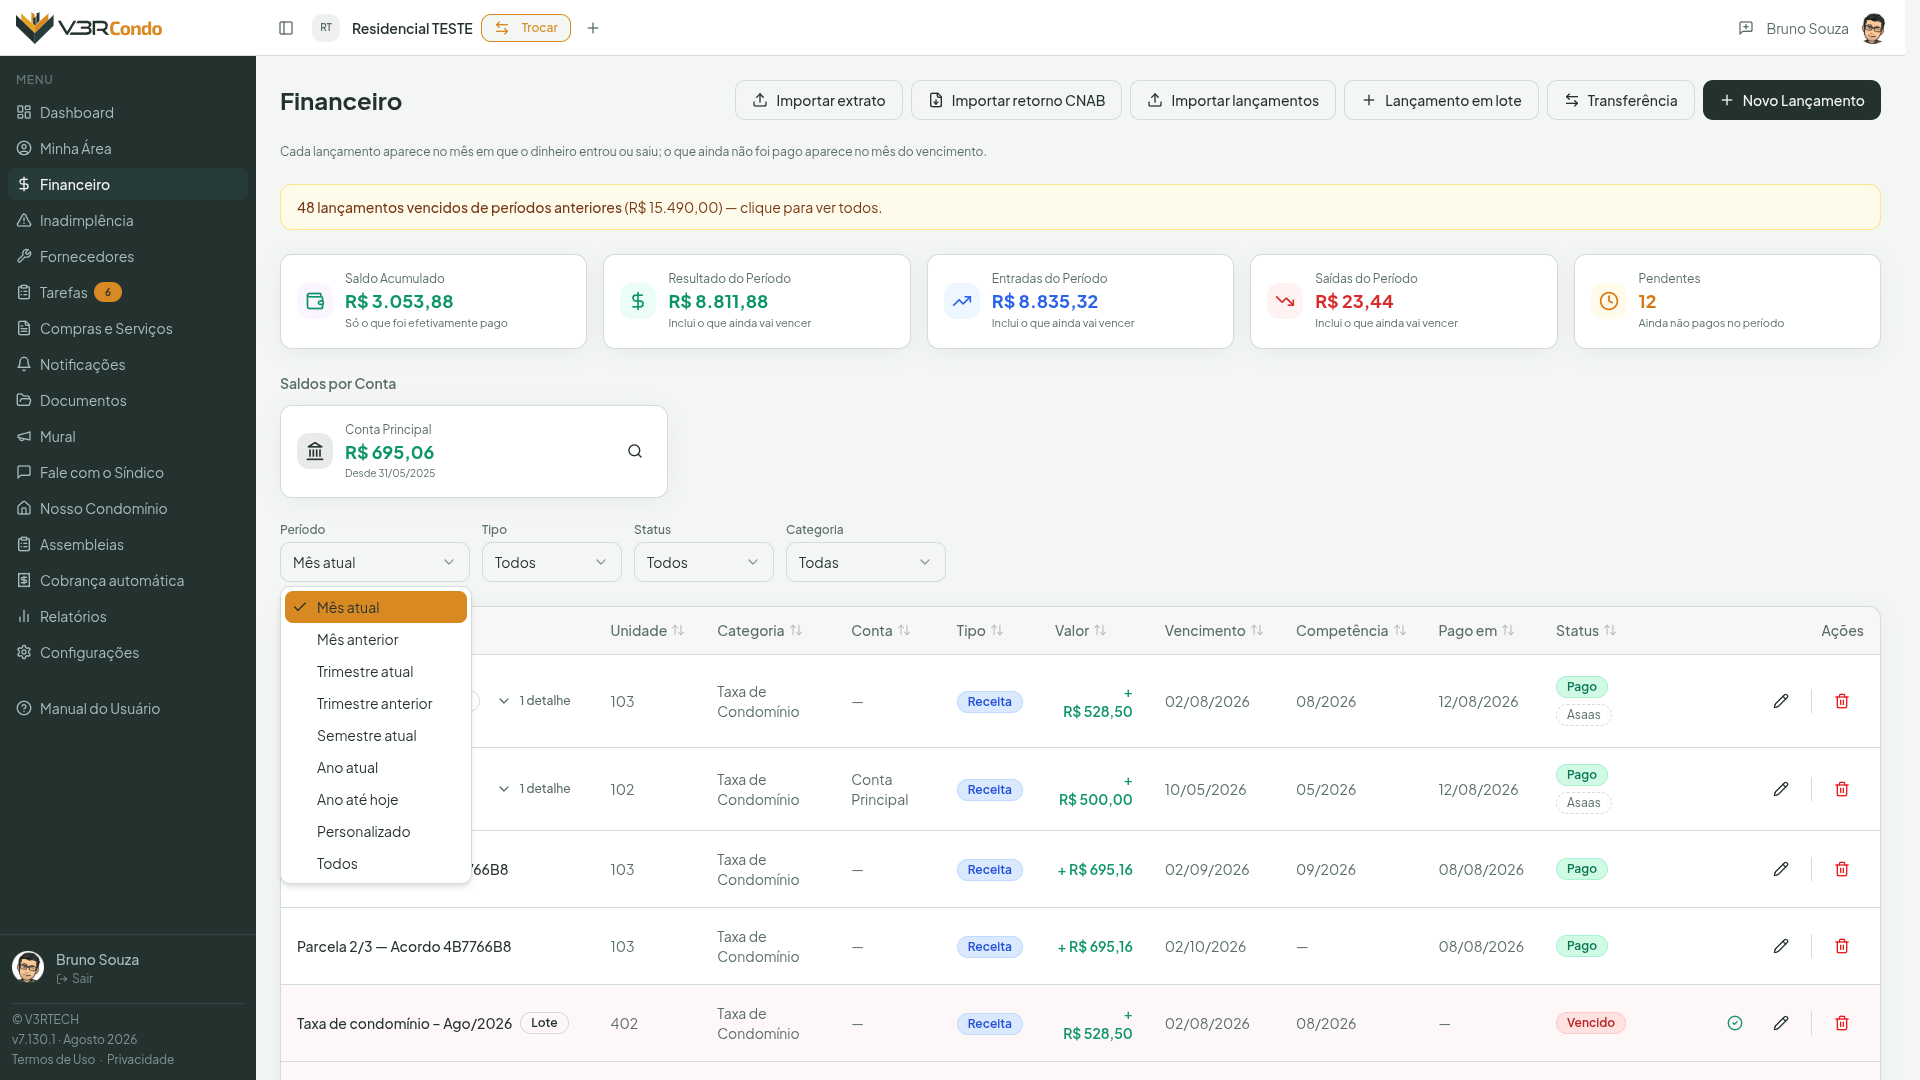
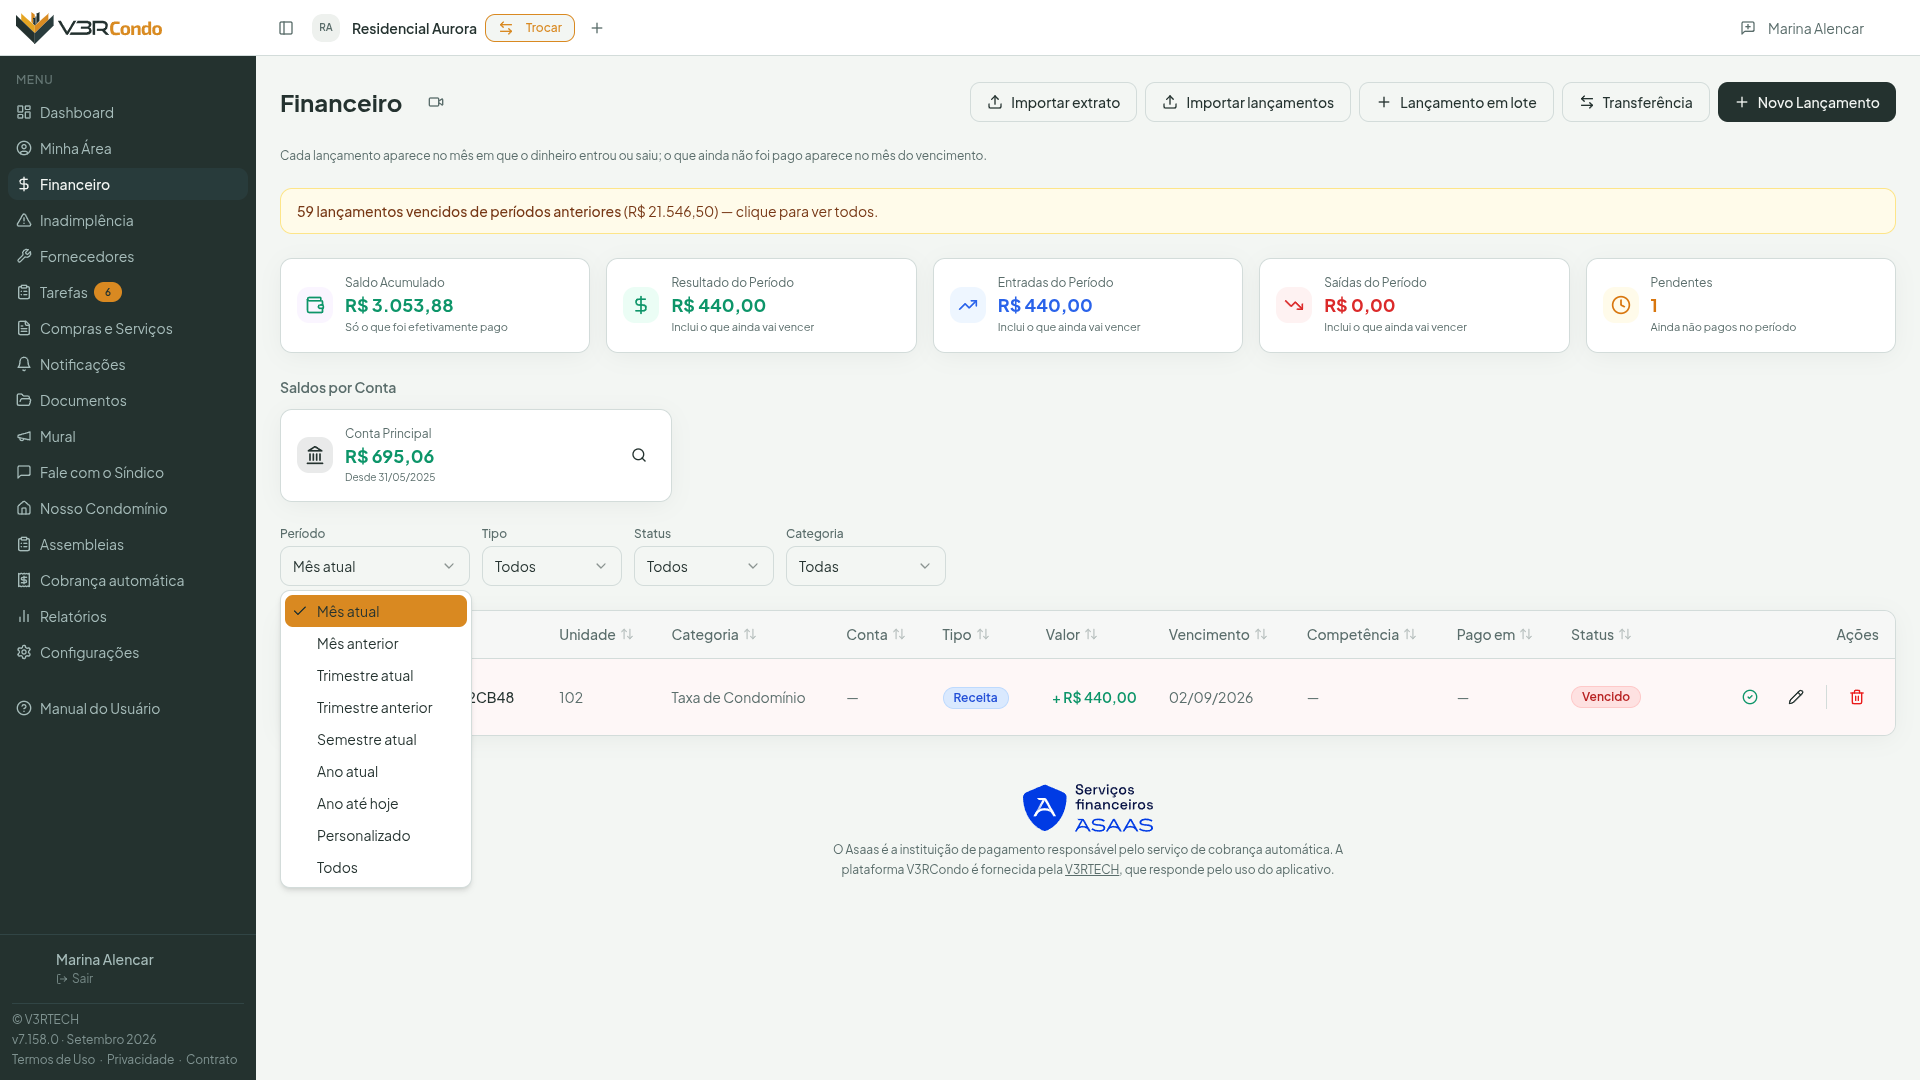
docs: retira a importacao de retorno CNAB e refaz as capturas do Financeiro (v7.158)

diff --git a/modulos/financeiro.md b/modulos/financeiro.md
@@ -338,44 +338,6 @@ Exibe quantos lançamentos foram importados, quais erros adicionais ocorreram e 
 >
 > Use a coluna `competencia` (MM/AAAA) para indicar o mês de referência quando ele for diferente do mês de vencimento. Se não preenchida, o sistema usa o mês de vencimento. Para categorias de inadimplência, a competência é obrigatória.
 
-## Importar retorno CNAB400 *(síndico — plano Pro)*
-
-Após os boletos do mês serem processados pelo banco, importe o arquivo de retorno (.ret) para marcar automaticamente os lançamentos correspondentes como pagos.
-
-Clique em **Importar retorno CNAB** e siga as quatro etapas:
-
-![Wizard de importação de retorno CNAB400 mostrando pré-visualização com badges de correspondência por Nosso Número e CPF](/assets/screenshots/100-financeiro-cnab-retorno.png)
-
-**1. Upload**
-Selecione ou arraste o arquivo `.ret` gerado pelo Banco Inter (também aceito: `.txt`).
-
-**2. Pré-visualização**
-O sistema analisa os boletos liquidados (código de ocorrência 06) e busca os lançamentos correspondentes por dois critérios:
-
-| Badge | Critério |
-|---|---|
-| ✅ Nosso Número | Lançamento encontrado pela referência do boleto. Disponível quando a remessa foi importada previamente via FIN-10a |
-| ✅ CPF | Lançamento encontrado pelo CPF do pagador, unidade e competência — funciona sem a remessa |
-| ❌ Sem correspondência | Boleto pago no banco mas sem lançamento correspondente no sistema |
-
-Um resumo acima da tabela indica quantos registros foram encontrados por cada critério.
-
-**3. Confirmação**
-Revise a lista de lançamentos que serão marcados como pagos e confirme a importação.
-
-**4. Resultado**
-Exibe quantos lançamentos foram atualizados. Registros sem correspondência são listados para revisão manual.
-
-{: .note }
-> **Banco suportado**
->
-> Nesta versão, o importador de retorno CNAB400 suporta exclusivamente o **Banco Inter (077)**. Suporte a outros bancos será adicionado em versões futuras.
-
-{: .tip }
-> **Conciliação sem remessa**
->
-> Mesmo sem ter importado a remessa, é possível conciliar pagamentos: o sistema usa o CPF do pagador informado no arquivo de retorno para localizar a unidade e o lançamento na competência do mês. Se houver mais de um lançamento em aberto para a mesma unidade e mês, o registro ficará como "Sem correspondência" para revisão manual.
-
 ## Visão do condômino
 
 Condôminos têm acesso de **leitura** ao módulo Financeiro — visualizam lançamentos, filtros e saldos, mas não podem criar, editar, excluir ou importar extratos. Também podem **abrir o detalhe de um lançamento** clicando na linha (ou no cartão, no celular), que é um painel de consulta sem botões de ação. Transferências entre contas também são visíveis na listagem, identificadas pelo badge **Transferência**.

diff --git a/faq.md b/faq.md
@@ -519,17 +519,6 @@ simultaneamente.
 </details>
 
 <details markdown="1">
-<summary>Como importar um arquivo de retorno bancário CNAB?</summary>
-
-Acesse **Financeiro → Importar → Retorno CNAB** e faça upload do arquivo
-`.ret` gerado pelo banco (formato CNAB 400). O sistema identifica os
-pagamentos, concilia automaticamente com os lançamentos existentes por número
-de referência ou por CPF/unidade/competência e exibe um relatório de
-pré-visualização antes de confirmar a importação. Banco Inter homologado;
-outros bancos em validação.
-</details>
-
-<details markdown="1">
 <summary>Posso anexar mais de um comprovante a um lançamento?</summary>
 
 Sim. Cada lançamento financeiro (e cada compra) aceita **vários anexos** — por

diff --git a/guia/planos.md b/guia/planos.md
@@ -39,7 +39,6 @@ O V3RCondo oferece dois planos: **Básico** (gratuito) e **Pro** (pago). Todo co
 | **Tarefas** | 🔒 Pro | ✅ |
 | **Recorrências financeiras** | 🔒 Pro | ✅ |
 | **Importação de extrato OFX/CSV** | 🔒 Pro | ✅ |
-| **Importação de retorno CNAB400 (Banco Inter)** | 🔒 Pro | ✅ |
 | **Cobrança automática (boleto, Pix e cartão, com baixa automática)** | 🔒 Pro | ✅ |
 | **Notificações por e-mail** | 🔒 Pro | ✅ |
 | **Documentos ilimitados** | 🔒 Pro | ✅ |

diff --git a/changelog.md b/changelog.md
@@ -9,6 +9,12 @@ Registro de versões e novidades do V3RCondo.
 
 ---
 
+## v7.158 — Setembro 2026
+
+### Alterado
+
+- **A importação de retorno CNAB saiu do Financeiro.** Com a cobrança integrada, a baixa dos pagamentos chega sozinha. As importações de **extrato bancário** e de **lançamentos por planilha** continuam iguais.
+
 ## v7.157 — Setembro 2026
 
 ### Novidade
